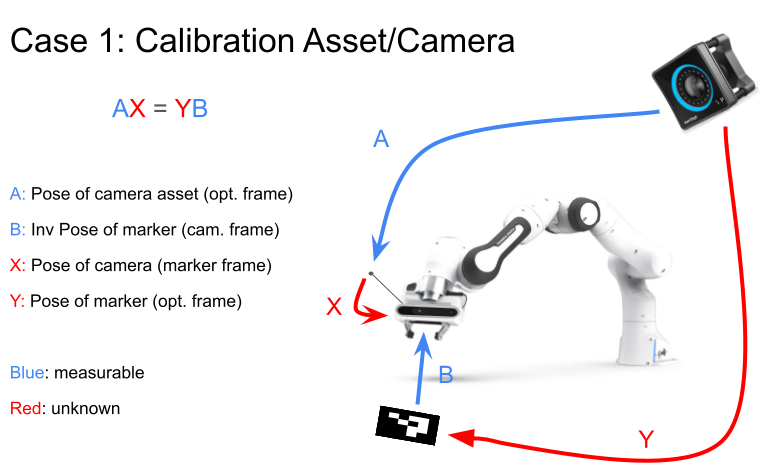
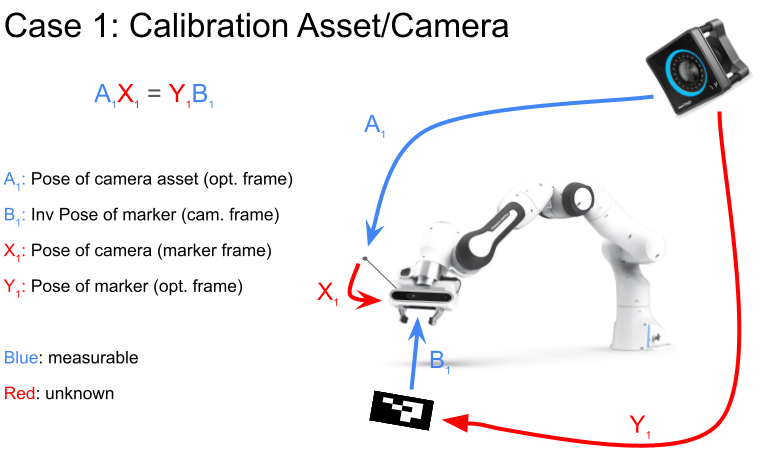
Change in process (deleted OpenCV method) + minor changes

diff --git a/src/scripts/process.py b/src/scripts/process.py
@@ -70,55 +70,12 @@ def result_to_se3(result):
     M[:3, 3] = T
     return M
 
-def pose_estimation(A_matrices, B_matrices, method=cv2.CALIB_HAND_EYE_TSAI):
-    """
-    Estimate the pose transformation between a robot's end-effector and a camera using hand-eye calibration,
-    given 3D arrays of transformation matrices.
-    
-    Args:
-    - A_matrices (np.array): A 3D numpy array of shape (4, 4, n) representing the robot base to end-effector transformations.
-    - B_matrices (np.array): A 3D numpy array of shape (4, 4, n) representing the camera to calibration object transformations.
-    
-    Returns:
-    - transformation_matrix (np.array): The 4x4 transformation matrix from the camera to the robot gripper.
-    """
-    
-    n = A_matrices.shape[2]
-    R_gripper2base_vec = []
-    t_gripper2base = []
-    R_target2cam_vec = []
-    t_target2cam = []
-    
-    for i in range(n):
-        # Extract rotation (R) and translation (t) components for each slice
-        R_gripper2base_vec.append(A_matrices[:3, :3, i])
-        t_gripper2base.append(A_matrices[:3, 3, i].reshape(3, 1))
-
-        R_target2cam_vec.append(B_matrices[:3, :3, i])
-        t_target2cam.append(B_matrices[:3, 3, i].reshape(3, 1))
-    
-    # Perform hand-eye calibration to solve for the transformation from camera to gripper
-    R_cam2gripper, t_cam2gripper = cv2.calibrateHandEye(
-        R_gripper2base=R_gripper2base_vec,
-        t_gripper2base=t_gripper2base,
-        R_target2cam=R_target2cam_vec,
-        t_target2cam=t_target2cam,
-        method=method
-    )
-
-    # Create the 4x4 transformation matrix from the rotation matrix and translation vector
-    transformation_matrix = np.eye(4)
-    transformation_matrix[:3, :3] = R_cam2gripper
-    transformation_matrix[:3, 3] = t_cam2gripper.flatten()
-
-    return transformation_matrix
-
 def main():
     # Determine the path for loading the .npy files
     script_dir = os.path.dirname(os.path.realpath(__file__))
     
     # Load the A and B matrices from .npy files in the same directory as the script
-    real_data = False
+    real_data = True
     if real_data:
         A1 = np.load(os.path.join(script_dir, 'A1_matrices.npy'))
         B1 = np.load(os.path.join(script_dir, 'B1_matrices.npy'))
@@ -128,76 +85,105 @@ def main():
         # Determine the directory of the current file
         current_dir = os.path.dirname(os.path.abspath(__file__))
         # Construct the path to the data file in the same directory
-        data_file = os.path.join(current_dir, '../Pose-Estimation-for-Sensor-Calibration/pose_sim_data.p') #random 3deg, 3mm noise added to measurements
+        data_file = os.path.join(current_dir, '../Pose-Estimation-for-Sensor-Calibration/pose_sim_data_noisy.p') #random 3deg, 3mm noise added to measurements
         with open(data_file, mode='rb') as f:
             sim_data = pickle.load(f)
         A1=sim_data['xfm_A']
         B1=sim_data['xfm_B']
-        A2=A1
-        B2=B1
+        A2=A1[:,:,:]
+        B2=B1[:,:,:]
         
-    n = A1.shape[2]-1
+    n = A2.shape[2] - 1
 
     #Iterate over the matrices two by two
-    AA1 = np.empty((4, 4, n))
-    BB1 = np.empty((4, 4, n))
-    AA2 = np.empty((4, 4, n))
-    BB2 = np.empty((4, 4, n))
+    # AA1 = np.empty((4, 4, n))
+    # BB1 = np.empty((4, 4, n))
+    # AA2 = np.empty((4, 4, n))
+    # BB2 = np.empty((4, 4, n))
     
     
     # Senidng data to the Kalman Filtering methods
-    ekf1=EKF()
-    ekf2=EKF()
-    iekf1=IEKF()
-    iekf2=IEKF()
-    ukf1=UKF()
-    ukf2=UKF()
-    for i in range(n):
+    # ekf1=EKF()
+    # iekf1=IEKF()
+    # ukf1=UKF()
+    # ekf2=EKF()
+    # iekf2=IEKF()
+    # ukf2=UKF()
+    # for i in range(n):
         # Multiply pairs of matrices
-        AA1[:, :, i] = np.linalg.inv(A1[:, :, i]) @ A1[:, :, i + 1]
-        BB1[:, :, i] = np.linalg.inv(B1[:, :, i]) @ B1[:, :, i + 1]
-        # AA2[:, :, i] = A2[:, :, i] @ np.linalg.inv(A2[:, :, i + 1])
-        # BB2[:, :, i] = B2[:, :, i] @ np.linalg.inv(B2[:, :, i + 1])
+        # AA1[:, :, i] = np.linalg.inv(A1[:, :, i]) @ A1[:, :, i + 1]
+        # BB1[:, :, i] = np.linalg.inv(B1[:, :, i]) @ B1[:, :, i + 1]
+        # AA2[:, :, i] = np.linalg.inv(A2[:, :, i]) @ A2[:, :, i + 1]
+        # BB2[:, :, i] = np.linalg.inv(B2[:, :, i]) @ B2[:, :, i + 1]
         # ekf1.Update(AA1[:, :, i],BB1[:, :, i])
         # iekf1.Update(AA1[:, :, i],BB1[:, :, i])
         # ukf1.Update(AA1[:, :, i],BB1[:, :, i])
         # ekf2.Update(AA2[:, :, i],BB2[:, :, i])
         # iekf2.Update(AA2[:, :, i],BB2[:, :, i])
         # ukf2.Update(AA2[:, :, i],BB2[:, :, i])
-        print("{:.3f}%".format((i+1)/n))
+        # print("{:.3f}%".format(100*(i+1)/n))
 
     
     # Perform pose estimation
     X_est_batch_BP_1,Y_est_batch_BP_1, _, _ = Batch_Processing.pose_estimation(A1, B1)
-    X_est = pose_estimation(A1,B1, method=cv2.CALIB_HAND_EYE_TSAI)
-    X_est2 = pose_estimation(A1,B1, method=cv2.CALIB_HAND_EYE_PARK)
-    X_est3 = pose_estimation(A1,B1, method=cv2.CALIB_HAND_EYE_HORAUD)
-    X_est4 = pose_estimation(A1,B1, method=cv2.CALIB_HAND_EYE_ANDREFF)
-    # X_est_batch_BP_2,Y_est_batch_BP_2, _, _ = Batch_Processing.pose_estimation(A2, B2)
+    X_est_batch_BP_2,Y_est_batch_BP_2, _, _ = Batch_Processing.pose_estimation(A2, B2)
     
     
     # X_est_batch_EKF_1 = result_to_se3(ekf1)
     # X_est_batch_IEKF_1 = result_to_se3(iekf1)
     # X_est_batch_UKF_1 = result_to_se3(ukf1)
+    # X_est_batch_EKF_2 = result_to_se3(ekf2)
+    # X_est_batch_IEKF_2 = result_to_se3(iekf2)
+    # X_est_batch_UKF_2 = result_to_se3(ukf2)
     
     
 
     # Print the results
     # Set the numpy print options
     np.set_printoptions(precision=6, suppress=True)
-    print("\nX Matrix: \n" + str(se3_to_posestamped(X_est_batch_BP_1)))
-    print("\nX Matrix: \n" + str(se3_to_posestamped(X_est)))
-    print("\nX Matrix: \n" + str(se3_to_posestamped(X_est2)))
-    print("\nX Matrix: \n" + str(se3_to_posestamped(X_est3)))
-    print("\nX Matrix: \n" + str(se3_to_posestamped(X_est4)))
+    print("\nX Matrix BP1: \n" + str((X_est_batch_BP_1)))
     # print("\nX Matrix: \n" + str(X_est_batch_EKF_1))
     # print("\nX Matrix: \n" + str(X_est_batch_IEKF_1))
     # print("\nX Matrix: \n" + str(X_est_batch_UKF_1))
+    print("\nY Matrix BP1: \n" + str((Y_est_batch_BP_1)))
+    print("\nX Matrix BP2: \n" + str((X_est_batch_BP_2)))
+    # print("\nX Matrix EKF2: \n" + str(X_est_batch_EKF_2))
+    # print("\nX Matrix IEKF2: \n" + str(X_est_batch_IEKF_2))
+    # print("\nX Matrix UKF2: \n" + str(X_est_batch_UKF_2))
+    print("\nY Matrix BP2: \n" + str((Y_est_batch_BP_2)))
+    print("")
     
-    #print('\n.....Batch Processing Results\n')
-    #print("Y Pose: \n" + str(se3_to_posestamped(Y_est_batch_BP_1)))
-    #print("\nX Pose: \n" + str(se3_to_posestamped(X_est_batch_BP_1)))
-    #print("\nX Matrix: \n" + str(X_est_batch_BP_1))
+    est_X_BP1=np.empty((4, 4, n))
+    est_X_BP2=np.empty((4, 4, n))
+    est_Y_BP1=np.empty((4, 4, n))
+    est_Y_BP2=np.empty((4, 4, n))
+    # est_EKF=np.empty((4, 4, n))
+    # est_IEKF=np.empty((4, 4, n))
+    # est_UKF=np.empty((4, 4, n))
+    # est_EKF2=np.empty((4, 4, n))
+    for i in range(A2.shape[2]-1):
+        est_X_BP1[:,:,i]= np.linalg.inv(A1[:,:,i]) @ Y_est_batch_BP_1 @ B1[:,:,i]
+        est_X_BP2[:,:,i]= np.linalg.inv(A2[:,:,i]) @ Y_est_batch_BP_2 @ B2[:,:,i]
+        est_Y_BP1[:,:,i]= A1[:,:,i] @ X_est_batch_BP_1 @ np.linalg.inv(B1[:,:,i])
+        est_Y_BP2[:,:,i]= A2[:,:,i] @ X_est_batch_BP_2 @ np.linalg.inv(B2[:,:,i])
+        # est_EKF2[:,:,i] = np.linalg.inv(AA2[:,:,i]) @ X_est_batch_EKF_2 @ BB2[:,:,i]
+        # est_IEKF[:,:,i] = np.linalg.inv(AA2[:,:,i]) @ X_est_batch_IEKF_2 @ BB2[:,:,i]
+        # est_UKF[:,:,i] = np.linalg.inv(AA2[:,:,i]) @ X_est_batch_UKF_2 @ BB2[:,:,i]
+        
+    print("\nX Matrix BP1 std dev: \n" + str(np.std(est_X_BP1, axis=2)))
+    print("\nY Matrix BP1 std dev: \n" + str(np.std(est_Y_BP1, axis=2)))
+    print("\nX Matrix BP2 std dev: \n" + str(np.std(est_X_BP2, axis=2)))
+    print("\nY Matrix BP2 std dev: \n" + str(np.std(est_Y_BP2, axis=2)))
+    # print(np.std(est_EKF, axis=2))
+    # print(np.std(est_IEKF, axis=2))
+    # print(np.std(est_UKF, axis=2))
+    # print(np.std(est_EKF2, axis=2))
+        
+    np.save(os.path.join(script_dir, 'X1_matrices.npy'), X_est_batch_BP_1)
+    np.save(os.path.join(script_dir, 'Y1_matrices.npy'), Y_est_batch_BP_1)
+    np.save(os.path.join(script_dir, 'X2_matrices.npy'), X_est_batch_BP_2)
+    np.save(os.path.join(script_dir, 'Y2_matrices.npy'), Y_est_batch_BP_2)
+    
     print("")
 
 if __name__ == '__main__':

diff --git a/src/scripts/record.py b/src/scripts/record.py
@@ -92,7 +92,7 @@ def main():
 
     recorded_pub = rospy.Publisher("calibration/position_recorded", Bool, queue_size=1)
 
-    n = 64 # depends on the number of poses in the control algorithm
+    n = 3**6 # depends on the number of poses in the control algorithm
     A1 = np.zeros((4,4,n))
     B1 = np.zeros((4,4,n))
     A2 = np.zeros((4,4,n))
@@ -107,7 +107,7 @@ def main():
         print("Starting recording process")
         while not rospy.is_shutdown() and i < n:
             if recording:
-                rospy.sleep(2) #wait for arm to stop moving
+                rospy.sleep(2*time_threshold) #wait for arm to stop moving
                 data_captured = False
                 # Store and print the latest data
                 if latest_cam_pose and latest_robot_base_pose and latest_marker_pose and latest_ee_pose:
@@ -130,20 +130,20 @@ def main():
                         if delta_time_camera > time_threshold:
                             rospy.logerr("No data from camera pose since [s]: " +str(delta_time_camera))
                         if delta_time_robot_base > time_threshold:
-                            rospy.logerr("No data from robot base pose since [s]: " +str(delta_time_camera))
+                            rospy.logerr("No data from robot base pose since [s]: " +str(delta_time_robot_base))
                         if delta_time_marker > time_threshold:
-                            rospy.logerr("No data from marker pose since [s]: " +str(delta_time_camera))
+                            rospy.logerr("No data from marker pose since [s]: " +str(delta_time_marker))
                         if delta_time_ee > time_threshold:
                             rospy.logerr("No data from ee pose since [s]: " +str(delta_time_ee))
                             
                             
                 else:
                     if not latest_cam_pose:
-                        rospy.logerr("No data received from marker pose topic")
+                        rospy.logerr("No data received from camera pose topic")
                     if not latest_robot_base_pose:
                         rospy.logerr("No data received from robot pose topic")
                     if not latest_marker_pose:
-                        rospy.logerr("No data received from camera pose topic")
+                        rospy.logerr("No data received from marker pose topic")
                     if not latest_ee_pose:
                         rospy.logerr("No data received from end effector pose topic")
                         

diff --git a/README.md b/README.md
@@ -62,7 +62,7 @@ Steps to install your project:
      In order to record the data with a franka panda you can use the branch "calibration" of the repo: [https://github.com/epfl-lasa/panda-task-control/tree/calibration] to move the robotic arm to 64 different position and to send the data to the gathering process. First start the following script to gather the data and save it correctly:
      
      ```bash
-     python3 src/scripts/gather.py
+     python3 src/scripts/record.py
      ```
      Once the data of a pose has been recorded the calibration script will move to the next position. Mathematicaly a minimum of 3 pose are required, by default n=64, the pose are then saved as .npy files
      
